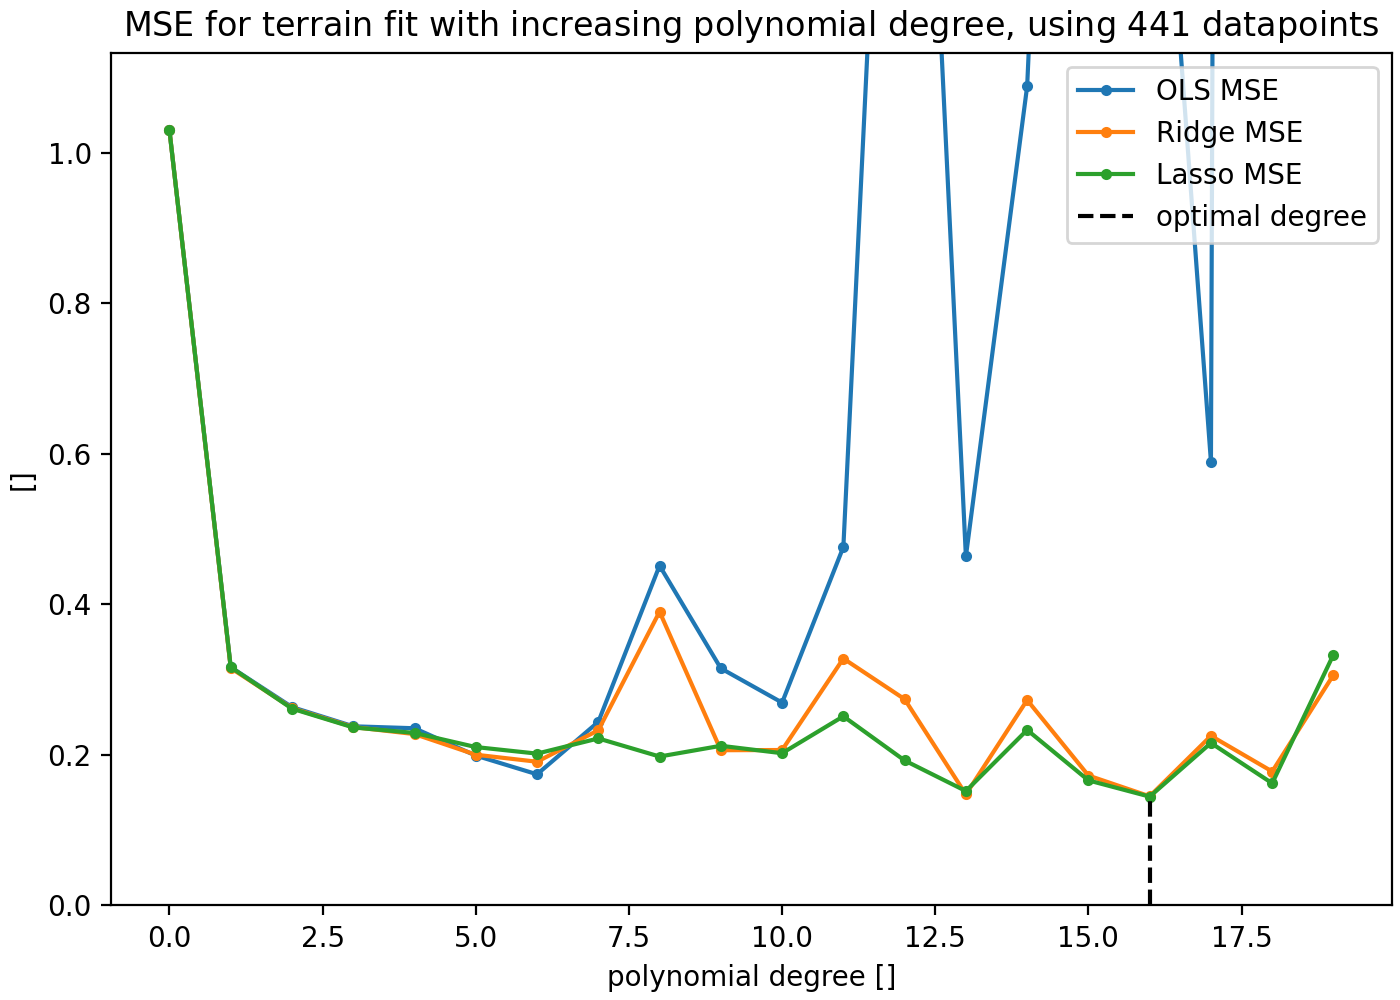
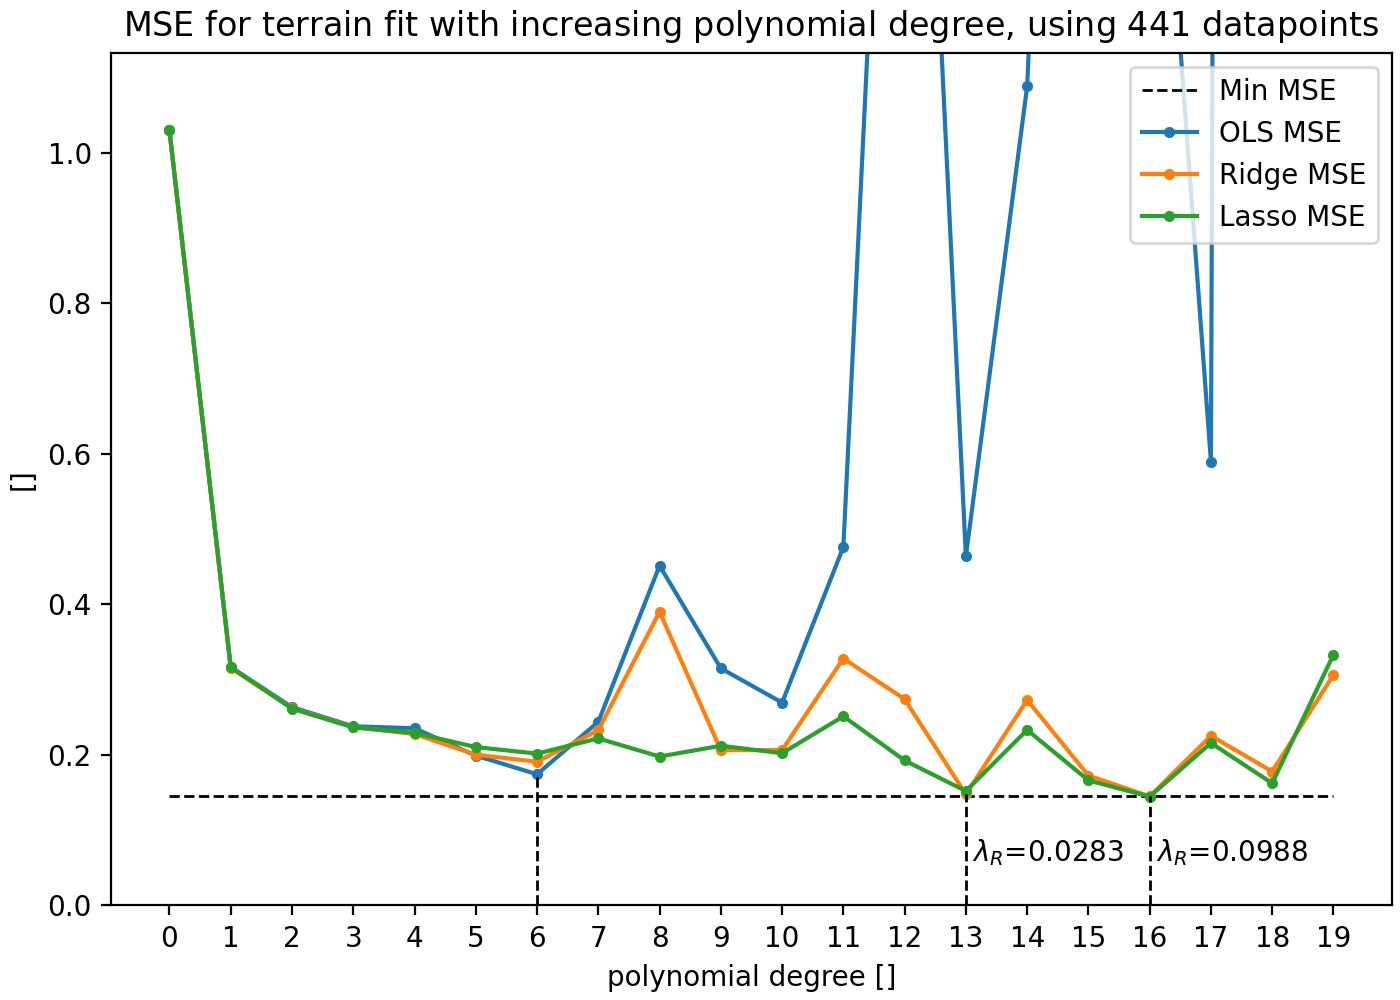
finished project?

diff --git a/project1/resampling_comp.py b/project1/resampling_comp.py
@@ -15,17 +15,14 @@ max_degree = 16
 lda_ray = np.logspace(-8, 4, 300)
 degree_list = list(range(max_degree+1))
 
-OLS_nosample_error_ray = np.zeros(len(degree_list))
-OLS_bootstrap_error_ray = np.zeros_like(OLS_nosample_error_ray)
-OLS_cross_validation_error_ray = np.zeros_like(OLS_nosample_error_ray)
+OLS_bootstrap_error_ray = np.zeros(len(degree_list))
+OLS_cross_validation_error_ray = np.zeros_like(OLS_bootstrap_error_ray)
 
-ridge_nosample_error_ray = np.zeros_like(OLS_nosample_error_ray)
-ridge_bootstrap_error_ray = np.zeros_like(OLS_nosample_error_ray)
-ridge_cross_validation_error_ray = np.zeros_like(OLS_nosample_error_ray)
+ridge_bootstrap_error_ray = np.zeros_like(OLS_bootstrap_error_ray)
+ridge_cross_validation_error_ray = np.zeros_like(OLS_bootstrap_error_ray)
 
-lasso_nosample_error_ray = np.zeros_like(OLS_nosample_error_ray)
-lasso_bootstrap_error_ray = np.zeros_like(OLS_nosample_error_ray)
-lasso_cross_validation_error_ray = np.zeros_like(OLS_nosample_error_ray)
+lasso_bootstrap_error_ray = np.zeros_like(OLS_bootstrap_error_ray)
+lasso_cross_validation_error_ray = np.zeros_like(OLS_bootstrap_error_ray)
 
 x_grid, y_grid, z_grid = initialize_franke(n)
 
@@ -45,11 +42,6 @@ for i, poly_degree in enumerate(tqdm(degree_list)):
 
 
     linfit = LinFit(split_data)
-
-    OLS_nosample_error_ray[i] = linfit.test_fit(linfit.get_beta())[0]
-    ridge_nosample_error_ray[i] = linfit.test_fit(linfit.get_beta_ridge(optimal_ridge_lda))[0]
-    lasso_nosample_error_ray[i] = linfit.test_fit(linfit.get_beta_lasso(optimal_lasso_lda))[0]
-
 
     bootstrap_resampler = Resampler(split_data, n*n - 1)
     OLS_bootstrap_error = 0
@@ -78,23 +70,20 @@ for i, poly_degree in enumerate(tqdm(degree_list)):
     ridge_cross_validation_error_ray[i] = ridge_cross_validation_error / 5
     lasso_cross_validation_error_ray[i] = lasso_cross_validation_error / 5
 
-plt.figure(figsize=(10, 6), constrained_layout=True)
+plt.figure(figsize=(7, 5), constrained_layout=True)
 
 colors = plt.rcParams['axes.prop_cycle'].by_key()['color']
 
-plt.plot(degree_list, OLS_nosample_error_ray, ".--", color=colors[0], label="OLS no resampling")
-plt.plot(degree_list, OLS_bootstrap_error_ray, "*--", color=colors[0], label="OLS bootstrap resampling")
-plt.plot(degree_list, OLS_cross_validation_error_ray, "+--", color=colors[0], label="OLS cross-validation resampling")
-plt.plot(degree_list, ridge_nosample_error_ray, ".--", color=colors[1], label="Ridge no resampling")
-plt.plot(degree_list, ridge_bootstrap_error_ray, "*--", color=colors[1], label="Ridge bootstrap resampling")
-plt.plot(degree_list, ridge_cross_validation_error_ray, "+--", color=colors[1], label="Ridge cross-validation resampling")
-plt.plot(degree_list, lasso_nosample_error_ray, ".--", color=colors[2], label="Lasso no resampling")
-plt.plot(degree_list, lasso_bootstrap_error_ray, "*--", color=colors[2], label="Lasso bootstrap resampling")
-plt.plot(degree_list, lasso_cross_validation_error_ray, "+--", color=colors[2], label="Lasso cross-validation resampling")
+plt.plot(degree_list, OLS_bootstrap_error_ray, ".-", color=colors[0], label="OLS bootstrap resampling")
+plt.plot(degree_list, OLS_cross_validation_error_ray, ".--", color=colors[0], label="OLS cross-validation resampling")
+plt.plot(degree_list, ridge_bootstrap_error_ray, ".-", color=colors[1], label="Ridge bootstrap resampling")
+plt.plot(degree_list, ridge_cross_validation_error_ray, ".--", color=colors[1], label="Ridge cross-validation resampling")
+plt.plot(degree_list, lasso_bootstrap_error_ray, ".-", color=colors[2], label="Lasso bootstrap resampling")
+plt.plot(degree_list, lasso_cross_validation_error_ray, ".--", color=colors[2], label="Lasso cross-validation resampling")
 plt.ylim(0, 1.1)
 plt.legend()
 plt.xlabel("polynomial degree []")
 plt.ylabel("[]")
-plt.title(f"MSE for various resampling- and regression methods, using optimal $\\lambda$, ${n}^2$ datapoints")
+plt.title(f"${n}^2$ datapoints")
 plt.savefig("imgs/franke/resampling_regression_comp.png", dpi=200)
 plt.clf()

diff --git a/project1/MSE_R2_plotter.py b/project1/MSE_R2_plotter.py
@@ -1,4 +1,4 @@
-from linfitUtils import get_2d_design_matrix, get_beta, test_fit
+from linfitUtils import SplitData, LinFit
 from franke_func import initialize_franke
 import matplotlib.pyplot as plt
 import seaborn as sns
@@ -9,13 +9,17 @@ def plot_MSE_R2(
     degree_list, MSE_train_list, MSE_test_list, 
     R2_train_list, R2_test_list, title, filename
 ):
-    plt.figure(figsize=(7, 5), constrained_layout=True)
-    plt.plot(degree_list, MSE_train_list, label="training MSE")
-    plt.plot(degree_list, R2_train_list, label="training R2")
-    plt.plot(degree_list, MSE_test_list, label="testing MSE")
-    plt.plot(degree_list, R2_test_list, label="testing R2")
+    plt.figure(figsize=(6, 4), constrained_layout=True)
+    plt.plot(degree_list, MSE_train_list, ".--", label="train MSE")
+    plt.plot(degree_list, R2_train_list, ".--", label="train R2")
+    plt.plot(degree_list, MSE_test_list, ".--", label="test MSE")
+    plt.plot(degree_list, R2_test_list, ".--", label="test R2")
     plt.xlabel("polynomial degree []")
     plt.ylabel("y []")
+    if "no_noise" in title:
+        plt.ylim(-0.1, 1.1)
+    else:
+        plt.ylim(-0.5, 1.5)
     plt.title(title)
     plt.legend()
     plt.savefig(filename, dpi=200)
@@ -50,24 +54,24 @@ def linfit_franke(n, max_degree, add_noise, normalize):
 
     start = time.time()
     for i, poly_degree in enumerate(degree_list):
-        print(f"\r  {noise_str} {normalize_str} {i}/{max_degree}", end="")
+        print(f"\r{noise_str} {normalize_str} {i}/{max_degree}", end="")
 
-        X_train, X_test, y_train, y_test = get_2d_design_matrix(
-            poly_degree, x_grid, y_grid, z_grid, normalize
-        )
-        beta = get_beta(X_train, y_train)
+        split_data = SplitData.from_2d_polynomial(poly_degree, x_grid, y_grid, z_grid, normalize)
+        linfit = LinFit(split_data)
+    
+        beta = linfit.get_beta()
         beta_grid[i, :len(beta)] = beta
         
-        MSE_train, R2_train = test_fit(y_train, X_train, beta)
+        MSE_train, R2_train = linfit.test_train_fit(beta)
         MSE_train_list.append(MSE_train)
         R2_train_list.append(R2_train)
 
-        MSE_test, R2_test = test_fit(y_test, X_test, beta)
+        MSE_test, R2_test = linfit.test_fit(beta)
         MSE_test_list.append(MSE_test)
         R2_test_list.append(R2_test)
     print(f" - {time.time() - start:.3f} s")
 
-    MSE_R2_title = f"accuracy of fits, {normalize_str}, {noise_str}, n={n}"    
+    MSE_R2_title = f"{normalize_str},{noise_str},n={n}"    
     plot_MSE_R2(
         degree_list, MSE_train_list, MSE_test_list, 
         R2_train_list, R2_test_list, MSE_R2_title, filename
@@ -76,20 +80,11 @@ def linfit_franke(n, max_degree, add_noise, normalize):
     beta_title = f"optimal $\\beta$ of fits, {normalize_str}, {noise_str}, n={n}"
     plot_beta(beta_grid, beta_title, filename)
 
-    return degree_list, R2_test_list
-
+n = 15
 max_degree = 5
 np.random.seed(1)
-for n in [5, 1000]:
-    print(f"n = {n}:")
-    for add_noise in [False, True]:
-        R2_list = []
-        for normalize in [False, True]:
-            degree_list, R2_test = linfit_franke(n, max_degree, add_noise, normalize)
-            R2_list.append(np.array(R2_test))
 
-        plt.figure(figsize=(7, 5), constrained_layout=True)
-        plt.plot(degree_list, R2_list[0] - R2_list[1], label="R2 not normalized - R2 normalized")
-        plt.legend()
-        plt.savefig(f"imgs/franke/MSE_R2_comp/n={n}_{'noise' if add_noise else 'no_noise'}_diff.png", dpi=200)
-        plt.clf()
+for add_noise in [False, True]:
+    R2_list = []
+    for normalize in [False, True]:
+        linfit_franke(n, max_degree, add_noise, normalize)

diff --git a/project1/terrain_analyzer.py b/project1/terrain_analyzer.py
@@ -1,7 +1,6 @@
 from sklearn.model_selection import GridSearchCV
 from sklearn.linear_model import Ridge, Lasso
 from linfitUtils import LinFit, SplitData
-from mpl_toolkits.mplot3d import Axes3D
 from resampling import Resampler
 import matplotlib.pyplot as plt
 from terrain import get_terrain
@@ -20,22 +19,27 @@ OLS_error_list = []
 ridge_error_list = []
 lasso_error_list = []
 
+minimum_errors = []
+
 bootstrap_itrs = 50
 for poly_degree in tqdm(degree_list):
     split_data = SplitData.from_2d_polynomial(poly_degree, x_grid, y_grid, z_grid, True)
     linfit = LinFit(split_data)
     resampler = Resampler(split_data, bootstrap_itrs)
 
+    # find optimal Ridge lambda
     ridge_gridsearch = GridSearchCV(estimator=Ridge(), param_grid=dict(alpha=lda_ray))
     ridge_gridsearch.fit(*split_data.train_data)
     optimal_ridge_lda = ridge_gridsearch.best_params_['alpha']
 
+    # find optimal Lasso lambda, supressing warnings
     lasso_gridsearch = GridSearchCV(estimator=Lasso(), param_grid=dict(alpha=lda_ray))
     with warnings.catch_warnings():
         warnings.simplefilter("ignore")
         lasso_gridsearch.fit(*split_data.train_data)
     optimal_lasso_lda = lasso_gridsearch.best_params_['alpha']
 
+    # calculate MSE for each regression type
     OLS_error = linfit.test_fit()[0]
     ridge_error = linfit.test_fit(linfit.get_beta_ridge(optimal_ridge_lda))[0]
     lasso_error = linfit.test_fit(linfit.get_beta_lasso(optimal_lasso_lda))[0]
@@ -52,15 +56,47 @@ for poly_degree in tqdm(degree_list):
     ridge_error_list.append(ridge_error)
     lasso_error_list.append(lasso_error)
 
-min_list = [min(ols, ridge, lasso) for ols, ridge, lasso in zip(OLS_error_list, ridge_error_list, lasso_error_list)]
-best_degree = np.argmin(min_list)
+    # find which regression type is best
+    if OLS_error < ridge_error and OLS_error < lasso_error:
+        # OLS is smallest
+        minimum_errors.append({
+            'MSE': OLS_error,
+            'type': 'OLS',
+            'lambda': 0
+        })
+    elif OLS_error < ridge_error:
+        # Lasso is smallest
+        minimum_errors.append({
+            'MSE': lasso_error,
+            'type': 'Lasso',
+            'lambda': optimal_lasso_lda
+        })
+    else:
+        # Ridge is smallest
+        minimum_errors.append({
+            'MSE': ridge_error,
+            'type': 'Ridge',
+            'lambda': optimal_ridge_lda
+        })
+    minimum_errors[-1]['degree'] = poly_degree
+
+min_err = minimum_errors[np.argmin([err['MSE'] for err in minimum_errors])]
 
 plt.figure(figsize=(7, 5), constrained_layout=True)
+plt.plot([0, max(degree_list)], [min_err['MSE'], min_err['MSE']], "k--", linewidth=1, label="Min MSE")
 plt.plot(degree_list, OLS_error_list, ".-", label="OLS MSE")
 plt.plot(degree_list, ridge_error_list, ".-", label="Ridge MSE")
 plt.plot(degree_list, lasso_error_list, ".-", label="Lasso MSE")
-plt.plot([best_degree, best_degree], [0, min_list[best_degree]], "k--", label="optimal degree")
-plt.xlabel(degree_list)
+
+def label(minmum):
+    plt.plot([minmum['degree'], minmum['degree']], [0, minmum['MSE']], "k--", linewidth=1)
+    if minmum['type'] != "OLS":
+        plt.text(minmum['degree']+0.1, minmum['MSE']*(0.5 - 0.1), f"$\\lambda_{{{minmum['type'][0]}}}$={minmum['lambda']:.3g}")
+label(minimum_errors[6])
+label(minimum_errors[13])
+label(minimum_errors[16])
+
+plt.xticks(degree_list)
 plt.legend()
 plt.ylim(0, OLS_error_list[0]*1.1)
 plt.xlabel("polynomial degree []")

diff --git a/project1/test_linfitUtils.py b/project1/test_linfitUtils.py
@@ -11,11 +11,11 @@ def print_compare(a, b):
         a = a.flatten()
         b = b.flatten()
         abss = [f"{abs(ai - bi):.3g}" for ai, bi in zip(a, b)]
-        rels = ["0 %" if ai==0 and bi==0 else "∞ %" if bi==0 else f"{abs(ai - bi)/abs(bi)*100:.3g} %" for ai, bi in zip(a, b)]
-        print(f"  abs:({' '.join(abss)}), rel:({', '.join(rels)})")
+        rels = ["0%" if ai==0 and bi==0 else "∞%" if bi==0 else f"{abs(ai - bi)/abs(bi)*100:.3g}%" for ai, bi in zip(a, b)]
+        print(f"  abs:({', '.join(abss)}), rel:({', '.join(rels)})")
         return
     except:
-        print(f"  abs:{abs(a - b):.3g}, rel:{abs(a - b)/abs(b)*100:.3g} %")
+        print(f"  abs:{abs(a - b):.3g}, rel:{abs(a - b)/abs(b)*100:.3g}%")
 
 def f(x):
     term1 = 0.5*np.exp(-(9*x-7)**2/4.0)
